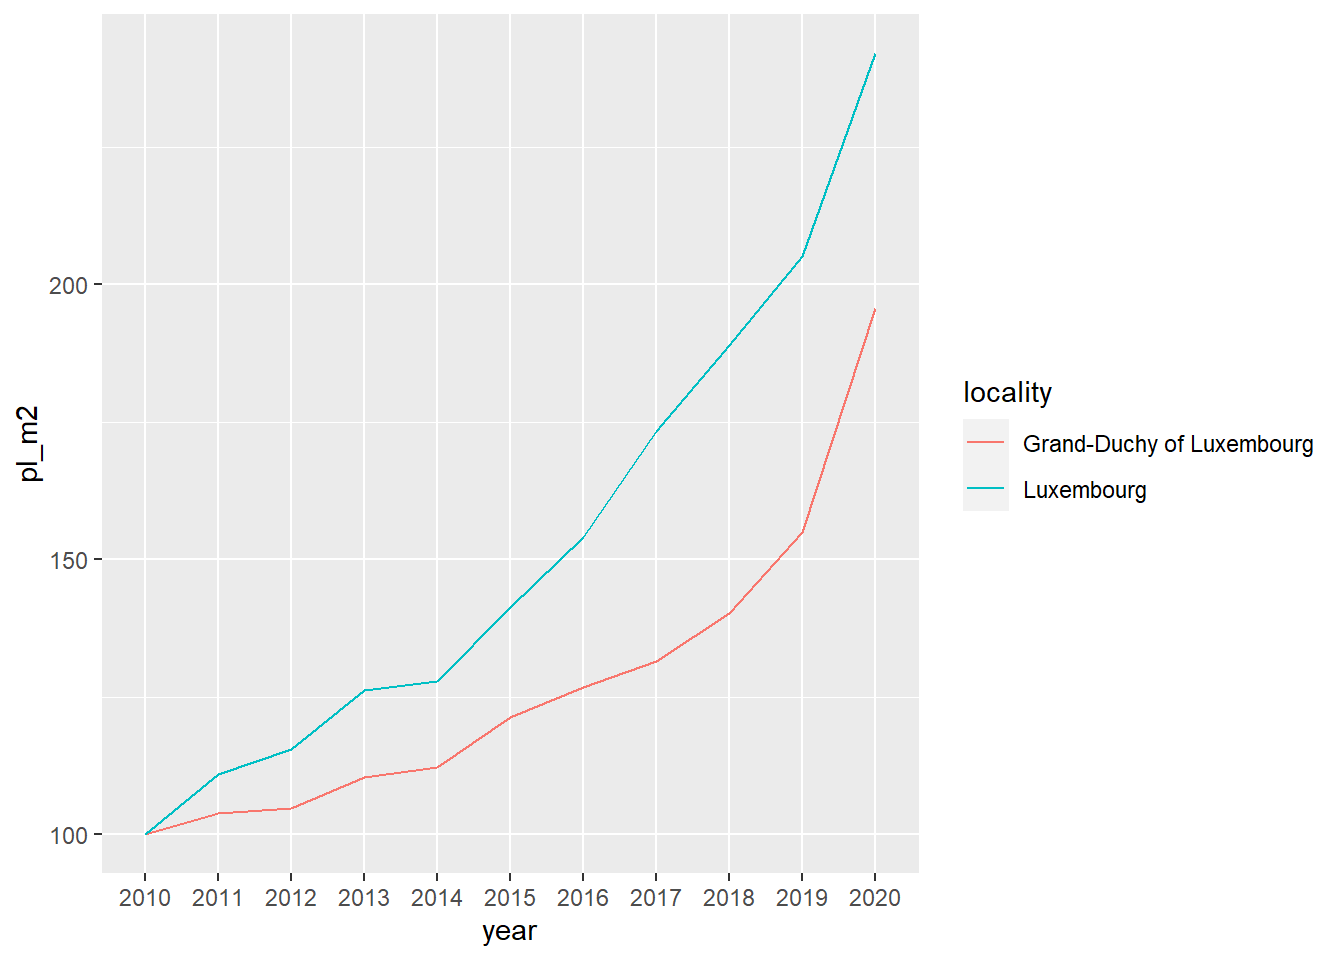
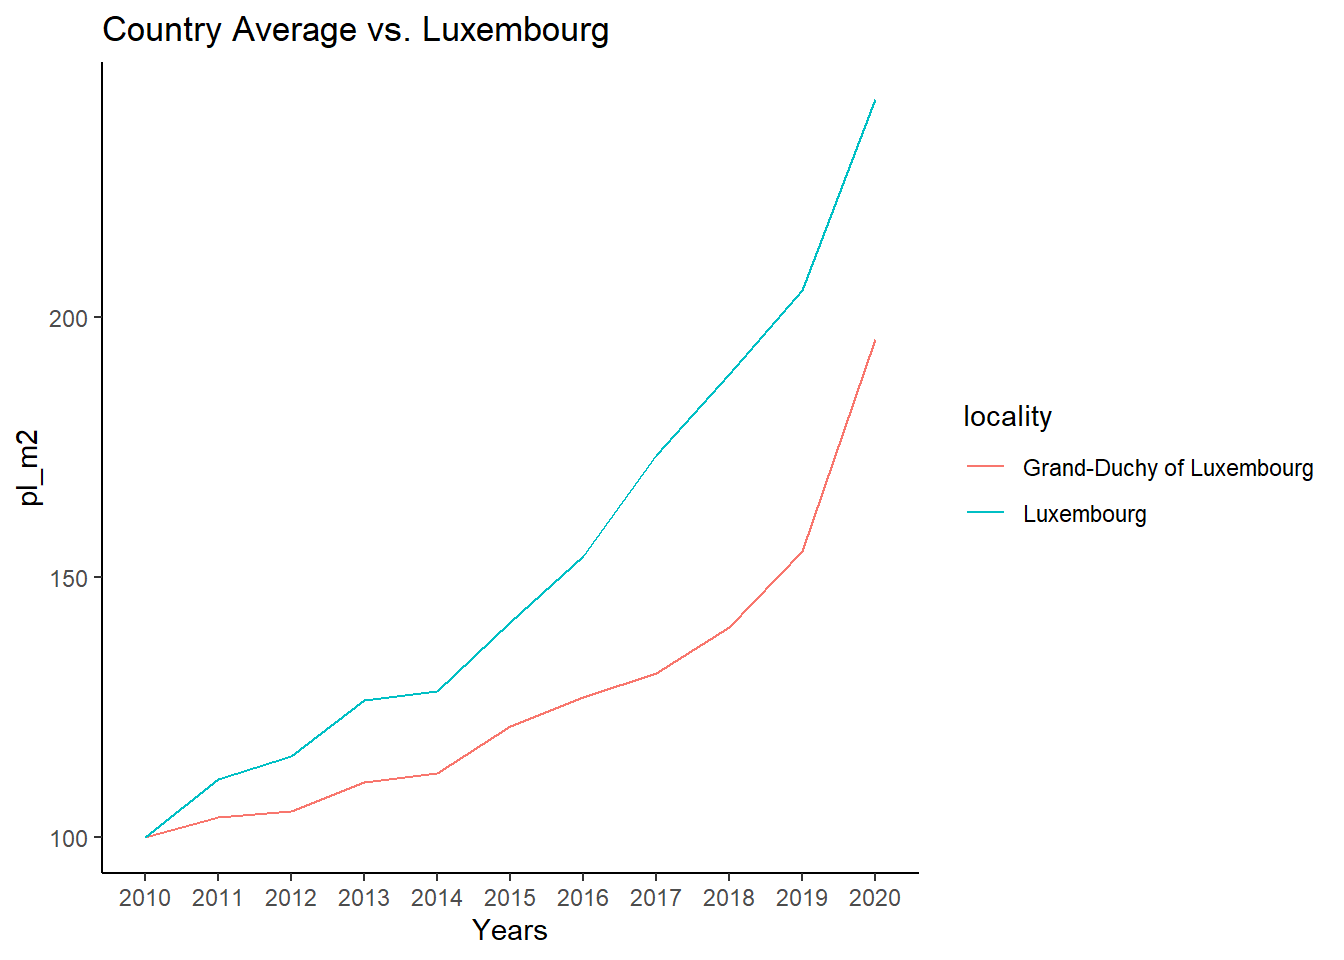
Small modifications on the plots, adding titles and a nice theme

diff --git a/Index.html b/Index.html
@@ -6,7 +6,7 @@
 
 <meta name="viewport" content="width=device-width, initial-scale=1.0, user-scalable=yes">
 
-<meta name="author" content="Miray">
+<meta name="author" content="Miray &amp; Ecenaz">
 
 <title>Luxembourg Data Project</title>
 <style>
@@ -90,7 +90,7 @@ pre > code.sourceCode > span > a:first-child::before { text-decoration: underlin
     <div>
     <div class="quarto-title-meta-heading">Author</div>
     <div class="quarto-title-meta-contents">
-             <p>Miray </p>
+             <p>Miray &amp; Ecenaz </p>
           </div>
   </div>
     
@@ -103,6 +103,8 @@ pre > code.sourceCode > span > a:first-child::before { text-decoration: underlin
 
 <section id="luxembourg-data-project" class="level2">
 <h2 class="anchored" data-anchor-id="luxembourg-data-project">Luxembourg Data Project</h2>
+<p><strong>Luxembourg</strong>, officially the <strong>Grand Duchy of Luxembourg</strong>, is a small landlocked country in Western Europe. It borders Belgium to the west and north, Germany to the east, and France to the south.</p>
+<p>In this project we are going to import the data that is compiled by the Housing Observatory (<em>Observatoire de l'Habitat</em>). One thing that should be careful regarding this data is, to be aware of the fact that due to inflation, we have to convert nominal prices to real prices so that we can compare actual differences through the years.</p>
 <section id="required-libraries" class="level4">
 <h4 class="anchored" data-anchor-id="required-libraries">Required Libraries</h4>
 <div class="cell">
@@ -608,9 +610,11 @@ Caused by warning:
 <span id="cb53-18"><a href="#cb53-18" aria-hidden="true" tabindex="-1"></a></span>
 <span id="cb53-19"><a href="#cb53-19" aria-hidden="true" tabindex="-1"></a>                <span class="at">group =</span> locality,</span>
 <span id="cb53-20"><a href="#cb53-20" aria-hidden="true" tabindex="-1"></a></span>
-<span id="cb53-21"><a href="#cb53-21" aria-hidden="true" tabindex="-1"></a>                <span class="at">colour =</span> locality))</span>
-<span id="cb53-22"><a href="#cb53-22" aria-hidden="true" tabindex="-1"></a></span>
-<span id="cb53-23"><a href="#cb53-23" aria-hidden="true" tabindex="-1"></a>lux_plot</span></code><button title="Copy to Clipboard" class="code-copy-button"><i class="bi"></i></button></pre></div>
+<span id="cb53-21"><a href="#cb53-21" aria-hidden="true" tabindex="-1"></a>                <span class="at">colour =</span> locality)) <span class="sc">+</span></span>
+<span id="cb53-22"><a href="#cb53-22" aria-hidden="true" tabindex="-1"></a>  <span class="fu">labs</span>(<span class="at">title =</span> <span class="st">"Country Average vs. Luxembourg"</span>, <span class="at">x =</span> <span class="st">"Years"</span>) <span class="sc">+</span></span>
+<span id="cb53-23"><a href="#cb53-23" aria-hidden="true" tabindex="-1"></a>  <span class="fu">theme_classic</span>()</span>
+<span id="cb53-24"><a href="#cb53-24" aria-hidden="true" tabindex="-1"></a></span>
+<span id="cb53-25"><a href="#cb53-25" aria-hidden="true" tabindex="-1"></a>lux_plot</span></code><button title="Copy to Clipboard" class="code-copy-button"><i class="bi"></i></button></pre></div>
 <div class="cell-output-display">
 <p><img src="Index_files/figure-html/unnamed-chunk-26-1.png" class="img-fluid" width="672"></p>
 </div>
@@ -637,9 +641,11 @@ Caused by warning:
 <span id="cb54-18"><a href="#cb54-18" aria-hidden="true" tabindex="-1"></a></span>
 <span id="cb54-19"><a href="#cb54-19" aria-hidden="true" tabindex="-1"></a>                <span class="at">group =</span> locality,</span>
 <span id="cb54-20"><a href="#cb54-20" aria-hidden="true" tabindex="-1"></a></span>
-<span id="cb54-21"><a href="#cb54-21" aria-hidden="true" tabindex="-1"></a>                <span class="at">colour =</span> locality))</span>
-<span id="cb54-22"><a href="#cb54-22" aria-hidden="true" tabindex="-1"></a></span>
-<span id="cb54-23"><a href="#cb54-23" aria-hidden="true" tabindex="-1"></a>esch_plot</span></code><button title="Copy to Clipboard" class="code-copy-button"><i class="bi"></i></button></pre></div>
+<span id="cb54-21"><a href="#cb54-21" aria-hidden="true" tabindex="-1"></a>                <span class="at">colour =</span> locality)) <span class="sc">+</span></span>
+<span id="cb54-22"><a href="#cb54-22" aria-hidden="true" tabindex="-1"></a>  <span class="fu">labs</span>(<span class="at">title =</span> <span class="st">"Country Average vs. Esch sur Alzette"</span>, <span class="at">x =</span> <span class="st">"Years"</span>) <span class="sc">+</span></span>
+<span id="cb54-23"><a href="#cb54-23" aria-hidden="true" tabindex="-1"></a>  <span class="fu">theme_classic</span>()</span>
+<span id="cb54-24"><a href="#cb54-24" aria-hidden="true" tabindex="-1"></a></span>
+<span id="cb54-25"><a href="#cb54-25" aria-hidden="true" tabindex="-1"></a>esch_plot</span></code><button title="Copy to Clipboard" class="code-copy-button"><i class="bi"></i></button></pre></div>
 <div class="cell-output-display">
 <p><img src="Index_files/figure-html/unnamed-chunk-27-1.png" class="img-fluid" width="672"></p>
 </div>
@@ -666,9 +672,11 @@ Caused by warning:
 <span id="cb55-18"><a href="#cb55-18" aria-hidden="true" tabindex="-1"></a></span>
 <span id="cb55-19"><a href="#cb55-19" aria-hidden="true" tabindex="-1"></a>                <span class="at">group =</span> locality,</span>
 <span id="cb55-20"><a href="#cb55-20" aria-hidden="true" tabindex="-1"></a></span>
-<span id="cb55-21"><a href="#cb55-21" aria-hidden="true" tabindex="-1"></a>                <span class="at">colour =</span> locality))</span>
-<span id="cb55-22"><a href="#cb55-22" aria-hidden="true" tabindex="-1"></a></span>
-<span id="cb55-23"><a href="#cb55-23" aria-hidden="true" tabindex="-1"></a>mamer_plot</span></code><button title="Copy to Clipboard" class="code-copy-button"><i class="bi"></i></button></pre></div>
+<span id="cb55-21"><a href="#cb55-21" aria-hidden="true" tabindex="-1"></a>                <span class="at">colour =</span> locality)) <span class="sc">+</span></span>
+<span id="cb55-22"><a href="#cb55-22" aria-hidden="true" tabindex="-1"></a>  <span class="fu">labs</span>(<span class="at">title =</span> <span class="st">"Country Average vs. Mamer"</span>, <span class="at">x =</span> <span class="st">"Years"</span>) <span class="sc">+</span></span>
+<span id="cb55-23"><a href="#cb55-23" aria-hidden="true" tabindex="-1"></a>  <span class="fu">theme_classic</span>()</span>
+<span id="cb55-24"><a href="#cb55-24" aria-hidden="true" tabindex="-1"></a></span>
+<span id="cb55-25"><a href="#cb55-25" aria-hidden="true" tabindex="-1"></a>mamer_plot</span></code><button title="Copy to Clipboard" class="code-copy-button"><i class="bi"></i></button></pre></div>
 <div class="cell-output-display">
 <p><img src="Index_files/figure-html/unnamed-chunk-28-1.png" class="img-fluid" width="672"></p>
 </div>
@@ -695,9 +703,11 @@ Caused by warning:
 <span id="cb56-18"><a href="#cb56-18" aria-hidden="true" tabindex="-1"></a></span>
 <span id="cb56-19"><a href="#cb56-19" aria-hidden="true" tabindex="-1"></a>                <span class="at">group =</span> locality,</span>
 <span id="cb56-20"><a href="#cb56-20" aria-hidden="true" tabindex="-1"></a></span>
-<span id="cb56-21"><a href="#cb56-21" aria-hidden="true" tabindex="-1"></a>                <span class="at">colour =</span> locality))</span>
-<span id="cb56-22"><a href="#cb56-22" aria-hidden="true" tabindex="-1"></a></span>
-<span id="cb56-23"><a href="#cb56-23" aria-hidden="true" tabindex="-1"></a>schengen_plot</span></code><button title="Copy to Clipboard" class="code-copy-button"><i class="bi"></i></button></pre></div>
+<span id="cb56-21"><a href="#cb56-21" aria-hidden="true" tabindex="-1"></a>                <span class="at">colour =</span> locality)) <span class="sc">+</span></span>
+<span id="cb56-22"><a href="#cb56-22" aria-hidden="true" tabindex="-1"></a>  <span class="fu">labs</span>(<span class="at">title =</span> <span class="st">"Country Average vs. Schengen"</span>, <span class="at">x =</span> <span class="st">"Years"</span>) <span class="sc">+</span></span>
+<span id="cb56-23"><a href="#cb56-23" aria-hidden="true" tabindex="-1"></a>  <span class="fu">theme_classic</span>()</span>
+<span id="cb56-24"><a href="#cb56-24" aria-hidden="true" tabindex="-1"></a></span>
+<span id="cb56-25"><a href="#cb56-25" aria-hidden="true" tabindex="-1"></a>schengen_plot</span></code><button title="Copy to Clipboard" class="code-copy-button"><i class="bi"></i></button></pre></div>
 <div class="cell-output-display">
 <p><img src="Index_files/figure-html/unnamed-chunk-29-1.png" class="img-fluid" width="672"></p>
 </div>
@@ -724,9 +734,11 @@ Caused by warning:
 <span id="cb57-18"><a href="#cb57-18" aria-hidden="true" tabindex="-1"></a></span>
 <span id="cb57-19"><a href="#cb57-19" aria-hidden="true" tabindex="-1"></a>                <span class="at">group =</span> locality,</span>
 <span id="cb57-20"><a href="#cb57-20" aria-hidden="true" tabindex="-1"></a></span>
-<span id="cb57-21"><a href="#cb57-21" aria-hidden="true" tabindex="-1"></a>                <span class="at">colour =</span> locality))</span>
-<span id="cb57-22"><a href="#cb57-22" aria-hidden="true" tabindex="-1"></a></span>
-<span id="cb57-23"><a href="#cb57-23" aria-hidden="true" tabindex="-1"></a>wincrange_plot</span></code><button title="Copy to Clipboard" class="code-copy-button"><i class="bi"></i></button></pre></div>
+<span id="cb57-21"><a href="#cb57-21" aria-hidden="true" tabindex="-1"></a>                <span class="at">colour =</span> locality)) <span class="sc">+</span></span>
+<span id="cb57-22"><a href="#cb57-22" aria-hidden="true" tabindex="-1"></a>  <span class="fu">labs</span>(<span class="at">title =</span> <span class="st">"Country Average vs. Wincrange"</span>, <span class="at">x =</span> <span class="st">"Years"</span>) <span class="sc">+</span></span>
+<span id="cb57-23"><a href="#cb57-23" aria-hidden="true" tabindex="-1"></a>  <span class="fu">theme_classic</span>()</span>
+<span id="cb57-24"><a href="#cb57-24" aria-hidden="true" tabindex="-1"></a></span>
+<span id="cb57-25"><a href="#cb57-25" aria-hidden="true" tabindex="-1"></a>wincrange_plot</span></code><button title="Copy to Clipboard" class="code-copy-button"><i class="bi"></i></button></pre></div>
 <div class="cell-output-display">
 <p><img src="Index_files/figure-html/unnamed-chunk-30-1.png" class="img-fluid" width="672"></p>
 </div>
@@ -754,9 +766,11 @@ Caused by warning:
 <span id="cb58-18"><a href="#cb58-18" aria-hidden="true" tabindex="-1"></a></span>
 <span id="cb58-19"><a href="#cb58-19" aria-hidden="true" tabindex="-1"></a>                <span class="at">group =</span> locality,</span>
 <span id="cb58-20"><a href="#cb58-20" aria-hidden="true" tabindex="-1"></a></span>
-<span id="cb58-21"><a href="#cb58-21" aria-hidden="true" tabindex="-1"></a>                <span class="at">colour =</span> locality))</span>
-<span id="cb58-22"><a href="#cb58-22" aria-hidden="true" tabindex="-1"></a></span>
-<span id="cb58-23"><a href="#cb58-23" aria-hidden="true" tabindex="-1"></a>bertrange_plot</span></code><button title="Copy to Clipboard" class="code-copy-button"><i class="bi"></i></button></pre></div>
+<span id="cb58-21"><a href="#cb58-21" aria-hidden="true" tabindex="-1"></a>                <span class="at">colour =</span> locality)) <span class="sc">+</span></span>
+<span id="cb58-22"><a href="#cb58-22" aria-hidden="true" tabindex="-1"></a>  <span class="fu">labs</span>(<span class="at">title =</span> <span class="st">"Country Average vs. Betrange"</span>, <span class="at">x =</span> <span class="st">"Years"</span>) <span class="sc">+</span></span>
+<span id="cb58-23"><a href="#cb58-23" aria-hidden="true" tabindex="-1"></a>  <span class="fu">theme_classic</span>()</span>
+<span id="cb58-24"><a href="#cb58-24" aria-hidden="true" tabindex="-1"></a></span>
+<span id="cb58-25"><a href="#cb58-25" aria-hidden="true" tabindex="-1"></a>bertrange_plot</span></code><button title="Copy to Clipboard" class="code-copy-button"><i class="bi"></i></button></pre></div>
 <div class="cell-output-display">
 <p><img src="Index_files/figure-html/unnamed-chunk-31-1.png" class="img-fluid" width="672"></p>
 </div>
@@ -783,9 +797,11 @@ Caused by warning:
 <span id="cb59-18"><a href="#cb59-18" aria-hidden="true" tabindex="-1"></a></span>
 <span id="cb59-19"><a href="#cb59-19" aria-hidden="true" tabindex="-1"></a>                <span class="at">group =</span> locality,</span>
 <span id="cb59-20"><a href="#cb59-20" aria-hidden="true" tabindex="-1"></a></span>
-<span id="cb59-21"><a href="#cb59-21" aria-hidden="true" tabindex="-1"></a>                <span class="at">colour =</span> locality))</span>
-<span id="cb59-22"><a href="#cb59-22" aria-hidden="true" tabindex="-1"></a></span>
-<span id="cb59-23"><a href="#cb59-23" aria-hidden="true" tabindex="-1"></a>wiltz_plot</span></code><button title="Copy to Clipboard" class="code-copy-button"><i class="bi"></i></button></pre></div>
+<span id="cb59-21"><a href="#cb59-21" aria-hidden="true" tabindex="-1"></a>                <span class="at">colour =</span> locality)) <span class="sc">+</span></span>
+<span id="cb59-22"><a href="#cb59-22" aria-hidden="true" tabindex="-1"></a>  <span class="fu">labs</span>(<span class="at">title =</span> <span class="st">"Country Average vs. Wiltz"</span>, <span class="at">x =</span> <span class="st">"Years"</span>) <span class="sc">+</span></span>
+<span id="cb59-23"><a href="#cb59-23" aria-hidden="true" tabindex="-1"></a>  <span class="fu">theme_classic</span>()</span>
+<span id="cb59-24"><a href="#cb59-24" aria-hidden="true" tabindex="-1"></a></span>
+<span id="cb59-25"><a href="#cb59-25" aria-hidden="true" tabindex="-1"></a>wiltz_plot</span></code><button title="Copy to Clipboard" class="code-copy-button"><i class="bi"></i></button></pre></div>
 <div class="cell-output-display">
 <p><img src="Index_files/figure-html/unnamed-chunk-32-1.png" class="img-fluid" width="672"></p>
 </div>
@@ -816,9 +832,11 @@ Caused by warning:
 <span id="cb60-22"><a href="#cb60-22" aria-hidden="true" tabindex="-1"></a></span>
 <span id="cb60-23"><a href="#cb60-23" aria-hidden="true" tabindex="-1"></a>                <span class="at">group =</span> locality,</span>
 <span id="cb60-24"><a href="#cb60-24" aria-hidden="true" tabindex="-1"></a></span>
-<span id="cb60-25"><a href="#cb60-25" aria-hidden="true" tabindex="-1"></a>                <span class="at">colour =</span> locality))</span>
-<span id="cb60-26"><a href="#cb60-26" aria-hidden="true" tabindex="-1"></a></span>
-<span id="cb60-27"><a href="#cb60-27" aria-hidden="true" tabindex="-1"></a>mixplot</span></code><button title="Copy to Clipboard" class="code-copy-button"><i class="bi"></i></button></pre></div>
+<span id="cb60-25"><a href="#cb60-25" aria-hidden="true" tabindex="-1"></a>                <span class="at">colour =</span> locality)) <span class="sc">+</span> </span>
+<span id="cb60-26"><a href="#cb60-26" aria-hidden="true" tabindex="-1"></a>  <span class="fu">labs</span>(<span class="at">title =</span> <span class="st">"Luxembourg vs. Wiltz"</span>, <span class="at">x =</span> <span class="st">"Years"</span>) <span class="sc">+</span></span>
+<span id="cb60-27"><a href="#cb60-27" aria-hidden="true" tabindex="-1"></a>  <span class="fu">theme_classic</span>()</span>
+<span id="cb60-28"><a href="#cb60-28" aria-hidden="true" tabindex="-1"></a></span>
+<span id="cb60-29"><a href="#cb60-29" aria-hidden="true" tabindex="-1"></a>mixplot</span></code><button title="Copy to Clipboard" class="code-copy-button"><i class="bi"></i></button></pre></div>
 <div class="cell-output-display">
 <p><img src="Index_files/figure-html/unnamed-chunk-33-1.png" class="img-fluid" width="672"></p>
 </div>
